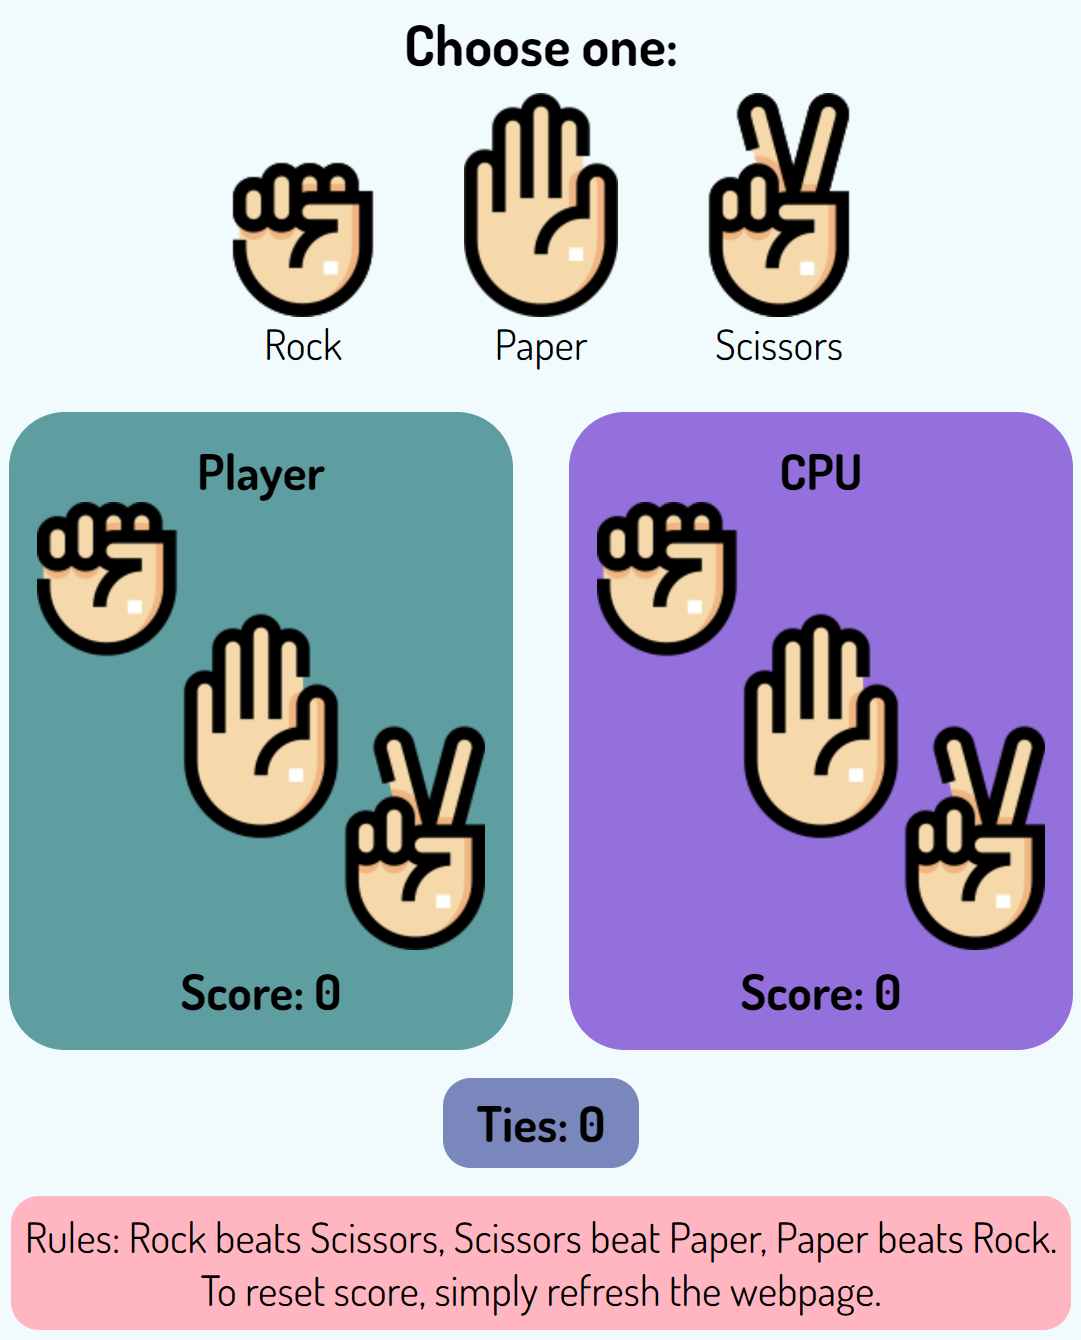
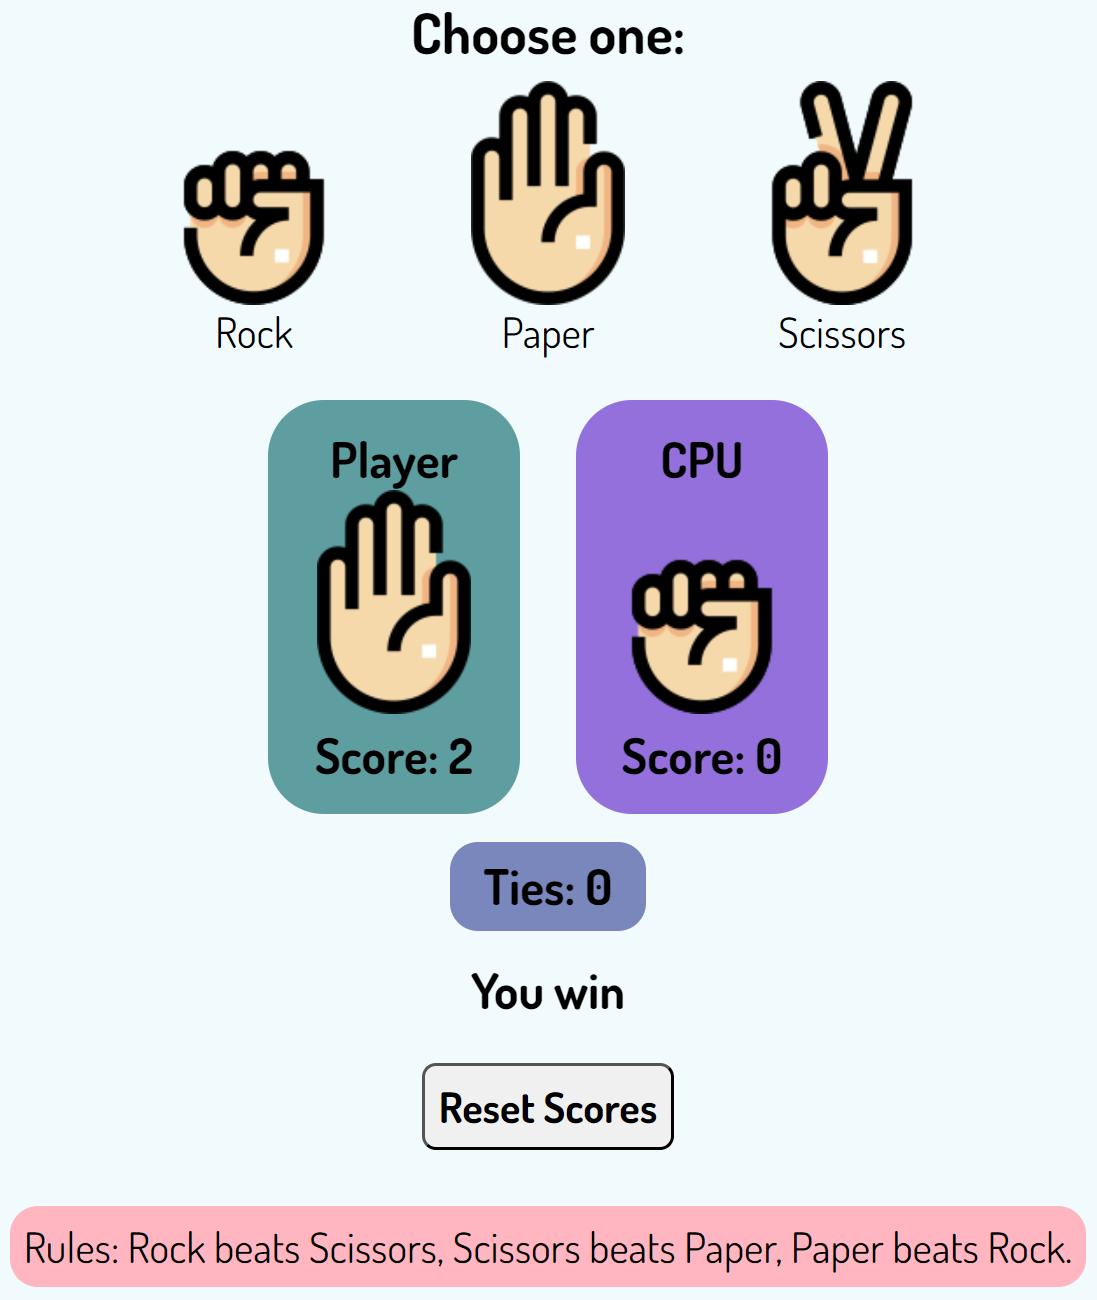
Add Reset Scores button to Features in README.md

diff --git a/README.md b/README.md
@@ -31,7 +31,7 @@ A minimalistic but attractive design was chosen, there is no need for a substanc
     ![Header](docs/images/01-header.png)
 
 - __Selection Area__
-    - To start playing "Rock, Paper, Scissors!" the user must chose either Rock, Paper or Scissors, this can be done by clicking either of the options which are presented as images of the Rock, Paper or Scissors hand gestures respectively.
+    - To start playing "Rock, Paper, Scissors!" the user must chose either Rock, Paper or Scissors, this can be done by clicking/tapping either of the options which are presented as images of the Rock, Paper or Scissors hand gestures respectively.
     - Under every option there is a text describing the hand gesture for those who haven't played the game.
 
     ![Selection Area](docs/images/02-choices.png)
@@ -46,9 +46,13 @@ A minimalistic but attractive design was chosen, there is no need for a substanc
 
     ![Game End](docs/images/04-results-end.png)
 
+- __Reset Scores__
+    - Under the Results area a Reset Scores button is displayed. When clicked/tapped all scores are reset to zero.
+
+    ![Reset Scores](docs/images/07-reset.png)
+
 - __Rules__
     - The rules of the game are presented under the Results area.
-    - A short explanation of how to reset the scores is also presented to the user.
 
     ![Rules](docs/images/05-rules.png)
 
